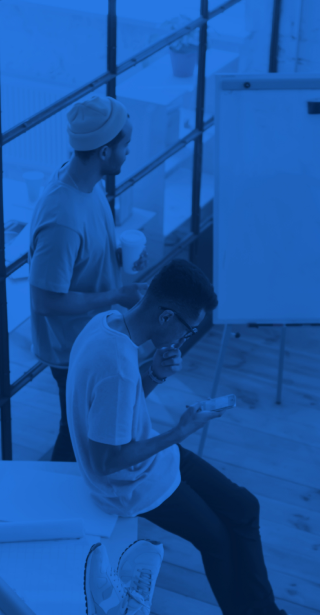
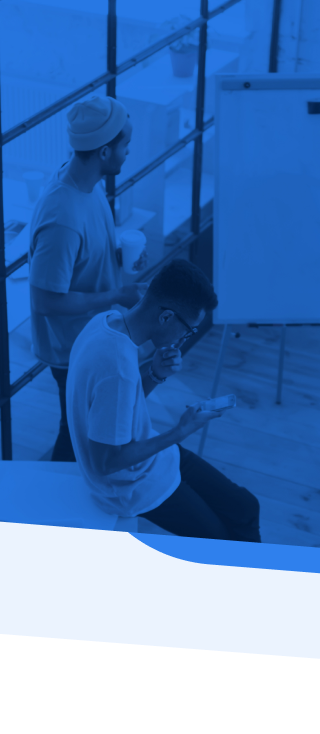
adaptive fixes
header and little part of titke was fixed

diff --git a/index.html b/index.html
@@ -43,15 +43,9 @@
 			</div>
 		</header>
 
-		<div class="container -n">
+		<div class="container -n -r">
 			<div class="hero__content">
-				<div class="circle -light-blue -hero">
-					<div class="circle__rate">Оценка</div>
-					<div class="circle__number"><b>12 из 10</b></div>
-					<div class="circle__name">Иван Матвиенко</div>
-					<div class="circle__platform"><b>Wimproof</b></div>
-					<a  href="" class="circle__link">Читать отзыв --></a>
-				</div>
+				
 				<div class="hero__right-part">
 					<p class="hero__date">Санкт-Петербург 10-21 мая</p>
 					<h1 class="hero__title">
@@ -60,7 +54,15 @@
 						и проверять гипотезы
 					</h1>
 					<p class="hero__subtitle">На оффлайн курсе из 5 воркшопов</p>
-					<button class="button -green -border -up">Записаться</button>
+					<button class="button -green -border -up -hero">Записаться</button>
+				</div>
+
+				<div class="circle -light-blue -hero">
+					<div class="circle__rate">Оценка</div>
+					<div class="circle__number"><b>12 из 10</b></div>
+					<div class="circle__name">Иван Матвиенко</div>
+					<div class="circle__platform"><b>Wimproof</b></div>
+					<a  href="" class="circle__link">Читать отзыв --></a>
 				</div>
 
 				

diff --git a/assets/styles/hero.css b/assets/styles/hero.css
@@ -40,6 +40,27 @@
 		width: 100%;
 	}
 
-	
+	.hero__content{
+		padding: 15px;
+		justify-content: center;
+		align-items: center;
+		flex-direction: column;
+	}
+
+	.hero__right-part{
+		margin-bottom: 20px;
+	}
+
+	.hero__date{
+		font-size: 12px;
+	}
+
+	.hero__title{
+		font-size: 24px;
+	}
+
+	.hero__subtitle{
+		font-size: 14px;
+	}
 }
 

diff --git a/assets/styles/header.css b/assets/styles/header.css
@@ -1,7 +1,7 @@
 .header{
 	height: 100px;
 	color: #fff;
-	padding: 22px;
+	padding: 0 22px;
 	display: flex;
 	align-items: center;
 	justify-content: space-between;
@@ -72,5 +72,9 @@
 
 	.arrow-down {
 		border-top-color: var(--color-white);
+	}
+
+	.header{
+		padding: 0 15px;
 	}
 }

diff --git a/assets/styles/base.css b/assets/styles/base.css
@@ -33,6 +33,8 @@ body {
 
 @media screen and (max-width: 767px) {
 	body {
-		background-image: url(../img/mainBGm.png);
+		background-image: url(../img/mainBG.png);
+		background-size: 1200px;
+		background-position-x: -450px;
 	}
 }

diff --git a/assets/styles/button.css b/assets/styles/button.css
@@ -23,3 +23,9 @@
 .button.-green:hover{
 	color: #2F80ED;
 }
+
+@media screen and (max-width: 767px){
+	.button.-green.-border.-up.-hero{
+		/*padding: 15px 100%;*/
+	}
+}

diff --git a/assets/styles/circle.css b/assets/styles/circle.css
@@ -64,5 +64,9 @@
 
 	/*left: 200px;
 	bottom: -190px;*/
-}
+	}
+
+	.circle.-light-blue.-hero{
+		position: static;
+	}
 }

diff --git a/assets/styles/section.css b/assets/styles/section.css
@@ -19,4 +19,8 @@
 	.container{
 		width: 100%;
 	}
+
+	.container.-r{
+		position: relative;
+	}
 }
